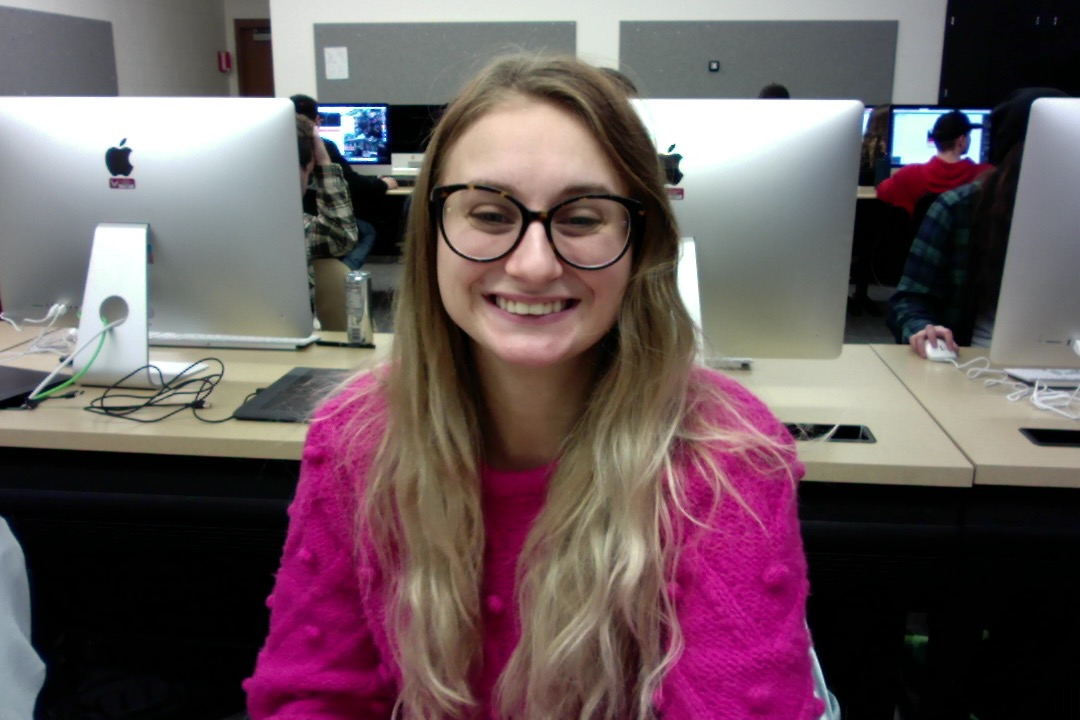
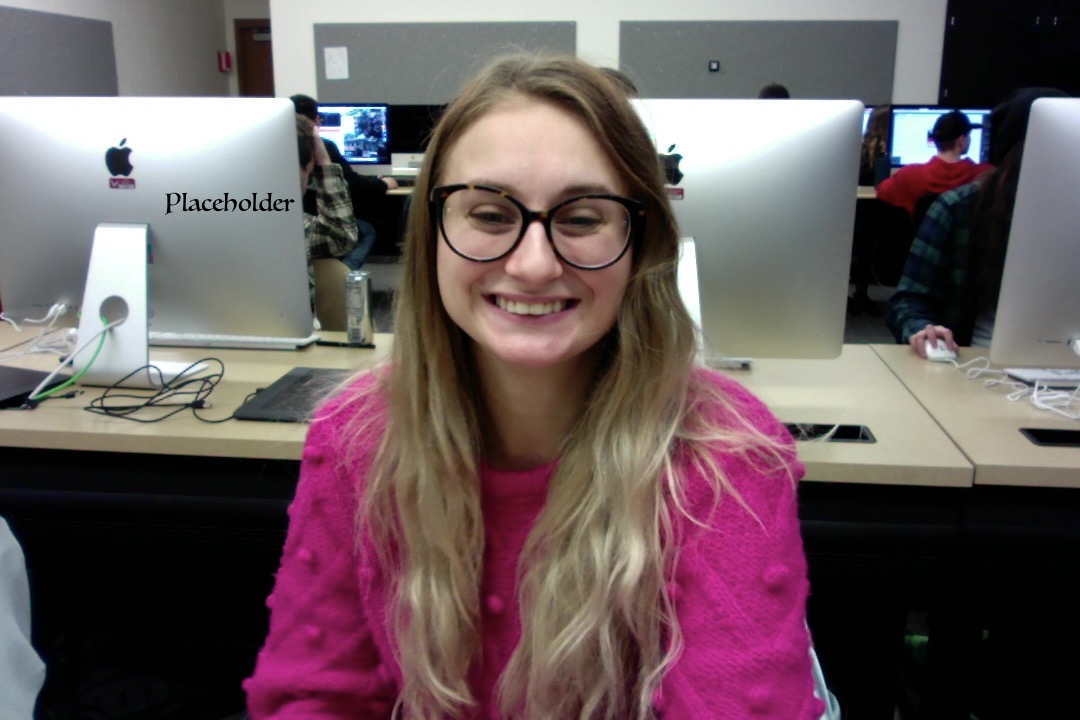
New Profile Pic
Placeholder

Changed region(s): [[0.6111, 0.6722, 0.7639, 1.0], [0.2139, 0.7028, 0.3361, 1.0], [0.1528, 0.275, 0.275, 0.3056]]

diff --git a/README.md b/README.md
@@ -1,2 +1,16 @@
 # MadKatCreationz.github.io
 MadKatCreationz.com
+
+## Style Tile
+### Colors
+* Primary Color:#F08080
+* Secondary Color:#87CEFA
+
+### Typography
+* Primary Font: Fira Code
+* Secondary Font: Lobster
+
+## References
+* [Normalize](https://necolas.github.io/normalize.css/)
+* [Google Fonts](https://fonts.google.com/specimen/Lobster)
+
